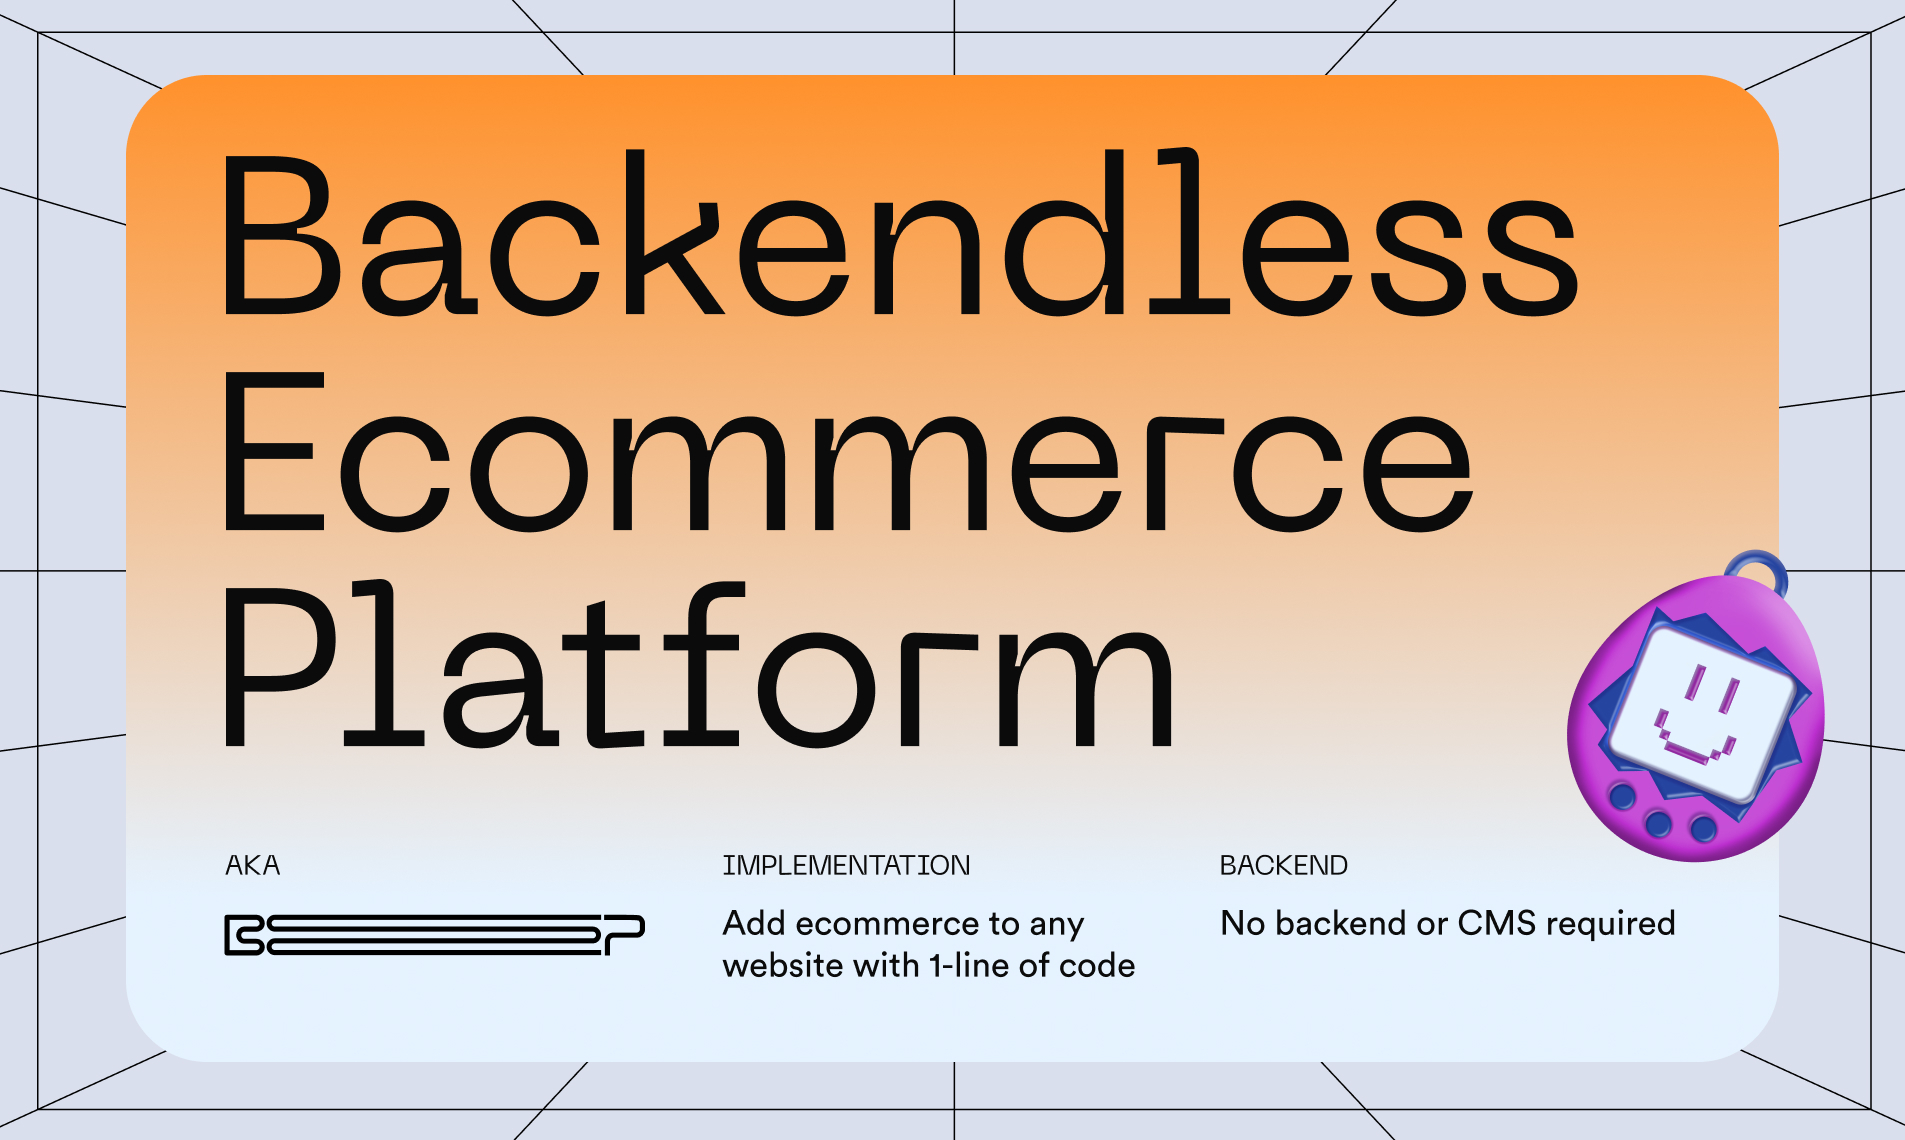
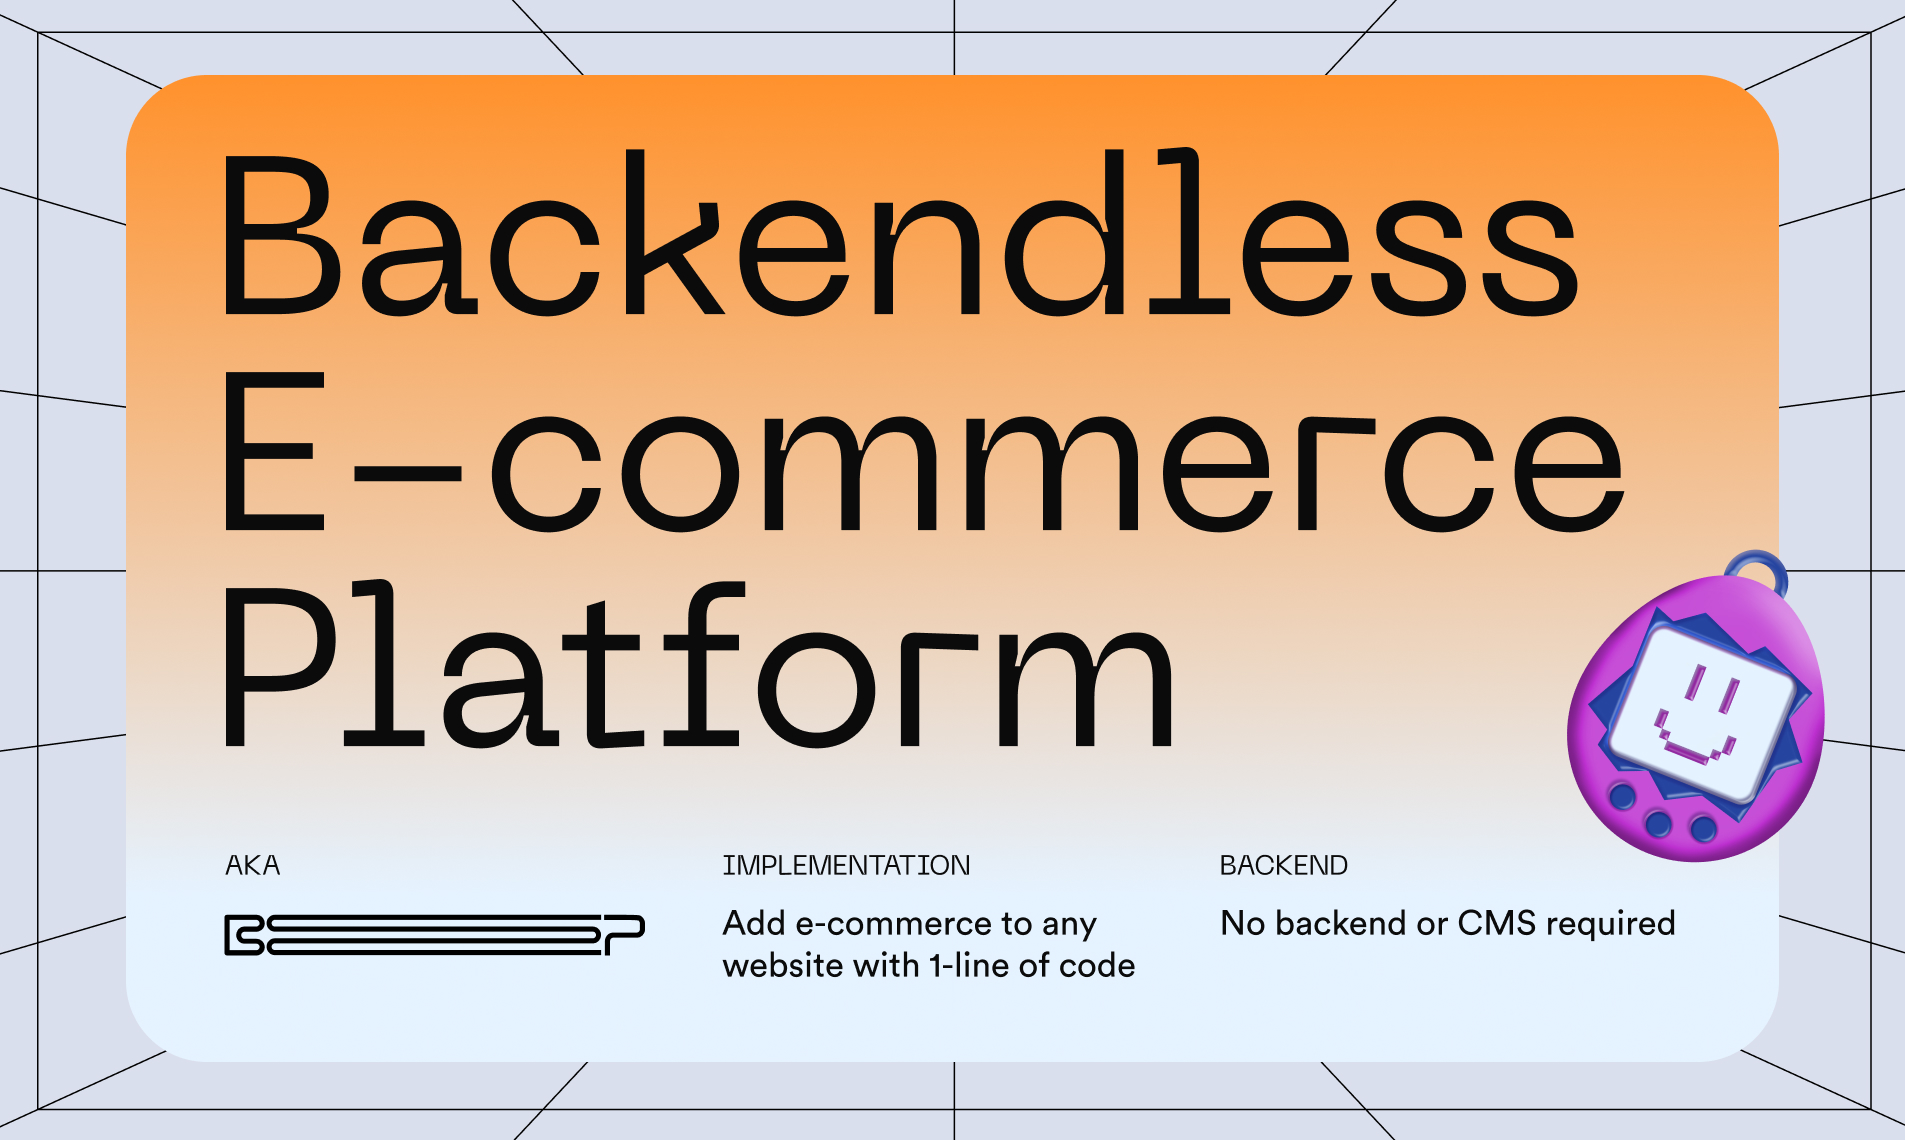
Updated naming conventions

Changed region(s): [[0.1549, 0.3684, 0.8672, 0.4912], [0.4336, 0.7982, 0.5885, 0.8289]]

diff --git a/README.md b/README.md
@@ -1,4 +1,4 @@
-# Backendless Ecommerce Platform
+# Backendless E-commerce Platform
 
 ![BEP Demo site](images/BEP.jpg)
 
@@ -22,7 +22,7 @@
 
 ## Overview
 
-BEP is short for “Backendless Ecommerce Platform,” and it turns any website into a shop with just one line of code.
+BEP is short for “Backendless E-commerce Platform,” and it turns any website into a shop with just one line of code.
 
 The best part?
 
